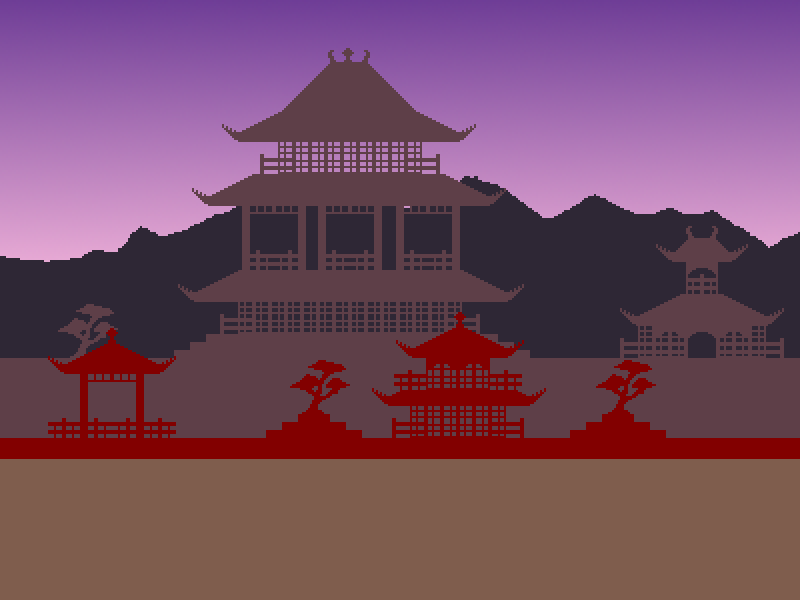
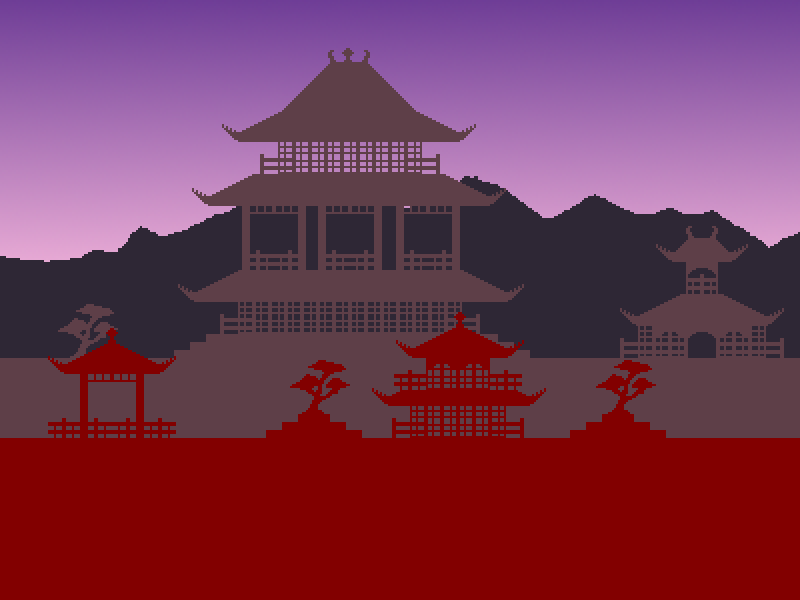
Add ground texture
Add image scaling

Changed region(s): [[0.0, 0.75, 1.0, 1.0]]

diff --git a/image.py b/image.py
@@ -5,18 +5,52 @@ from point import *
 
 class Image(object):
     def __init__(self, x, y, key, scale=Point(1, 1)):
+        self.__width = 0
+        self.__height = 0
+        self.__smoothed = True
         if key != '':
-            self.image = pygame.transform.scale(
-                assets.images[key],
-                (
-                    assets.images[key].get_width() * scale.x,
-                    assets.images[key].get_height() * scale.y))
+            self.__image = assets.images[key]
+            self.__width = self.__image.get_width() * scale.x
+            self.__height = self.__image.get_height() * scale.y
+            self.__set_scale()
         else:
+            self.__image = None
             self.image = None
         self.x = x
         self.y = y
         self.anchor = Point(0.5, 0.5)
         self.alpha = 1.0
+
+    def __set_scale(self):
+        if self.__image:
+            if self.smoothed:
+                self.image = pygame.transform.smoothscale(
+                    self.__image, (self.__width, self.__height))
+            else:
+                self.image = pygame.transform.scale(
+                    self.__image, (self.__width, self.__height))
+    @property
+    def width(self):
+        return self.__width
+    @width.setter
+    def width(self, value):
+        self.__width = value
+        self.__set_scale()
+    @property
+    def height(self):
+        return self.__height
+    @height.setter
+    def height(self, value):
+        self.__height = value
+        self.__set_scale()
+    @property
+    def smoothed(self):
+        return self.__smoothed
+    @smoothed.setter
+    def smoothed(self, value):
+        self.__smoothed = value
+        self.__set_scale()
+
 
     def update(self, time):
         pass

diff --git a/main.py b/main.py
@@ -52,6 +52,10 @@ class TitleState(State):
 
             bg = self.game.add.image(0, 0, 'background')
             bg.anchor = Point(0, 0)
+            ground = self.game.add.image(0, FLOOR_Y, 'ground')
+            ground.width = self.game.width
+            ground.height = self.game.height - FLOOR_Y
+            ground.anchor = Point(0, 0)
             self.game.add.image(self.game.width / 2, self.game.height / 2,
                                 'logo')
             self.hurt_boxes = self.game.add.group()
@@ -166,6 +170,11 @@ class GameState(State):
 
             bg = self.game.add.image(0, 0, 'background')
             bg.anchor = Point(0, 0)
+
+            ground = self.game.add.image(0, FLOOR_Y, 'ground')
+            ground.width = self.game.width
+            ground.height = self.game.height - FLOOR_Y
+            ground.anchor = Point(0, 0)
 
             self.bubbles = self.game.add.group()
             self.enemies = self.game.add.group()

diff --git a/config.py b/config.py
@@ -3,7 +3,7 @@ FRAME_RATE = 60
 SCREEN_SIZE = (800, 600)
 DEFLECTION_AUTOAIM_ANGLE = 90
 DEFLECTION_SPEED_SCALE = 1.5
-FLOOR_Y = 459
+FLOOR_Y = int(SCREEN_SIZE[1] * 0.75)
 DEBUG_DRAW_SPRITE_BOUNDS = False
 DEBUG_DRAW_SPRITE_ANCHOR = False
 DEBUG_DRAW_SPRITE_BODY = False

diff --git a/point.py b/point.py
@@ -32,3 +32,6 @@ class Point(object):
         dx = self.x - other.x
         dy = self.y - other.y
         return dx**2 + dy**2
+
+    def __eq__(self, other):
+        return self.x == other.x and self.y == other.y
